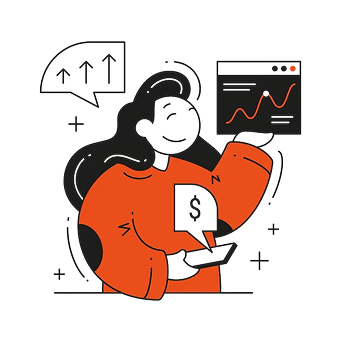
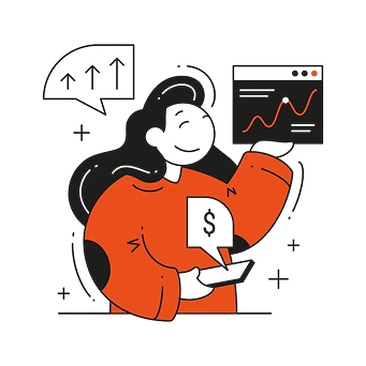
fix(intro): bordas arredondadas na imagem do financeiro (Android)
- Substituir border-radius direto no Image por ImageWrapper (View)
  com overflow:hidden + renderToHardwareTextureAndroid
- Adicionar border-color:transparent para anti-aliasing nos cantos
- Usar resizeMode=cover para o conteúdo preencher o wrapper
- Redimensionar 4.jpg (341x342) e 5.jpg (336x336) para 366x366px

diff --git a/src/pages/Intro/ui.tsx b/src/pages/Intro/ui.tsx
@@ -8,6 +8,7 @@ import {
 	Slide,
 	Title,
 	Icon,
+	ImageWrapper,
 	Image,
 	Text,
 	NextButton,
@@ -33,7 +34,9 @@ export function IntroUI({
 					resizeMode="contain"
 					style={sliderStyles.icon}
 				/>
-				<Image source={item.image} resizeMode="contain" />
+				<ImageWrapper renderToHardwareTextureAndroid>
+					<Image source={item.image} resizeMode="cover" />
+				</ImageWrapper>
 				<SlideContainer>
 					<Title>{item.title}</Title>
 					<Text>{item.text}</Text>

diff --git a/src/pages/Intro/styles.ts b/src/pages/Intro/styles.ts
@@ -27,10 +27,17 @@ export const Icon = styled.Image`
   height: 24px;
 `;
 
-export const Image = styled.Image`
+export const ImageWrapper = styled.View`
   margin: 0 32px 32px 32px;
   flex: 4;
   border-radius: 16px;
+  overflow: hidden;
+  border-width: 1px;
+  border-color: transparent;
+`;
+
+export const Image = styled.Image`
+  flex: 1;
 `;
 
 export const Title = styled.Text`
